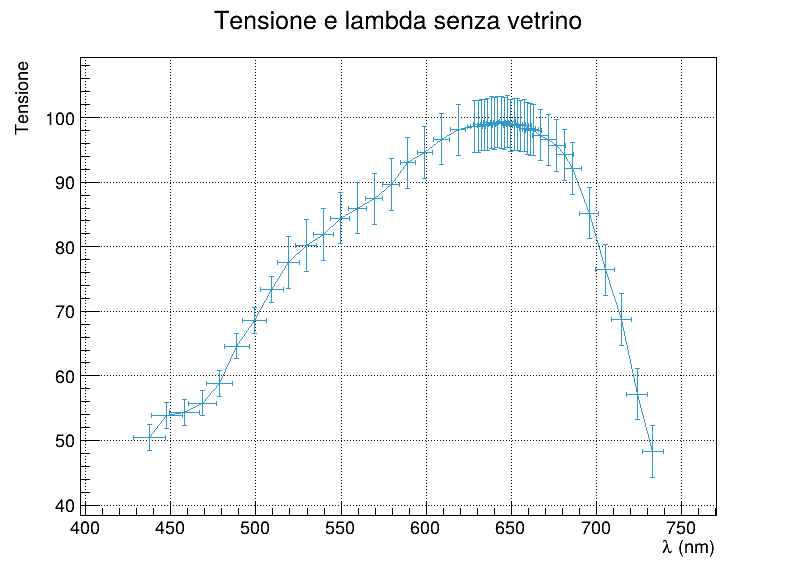
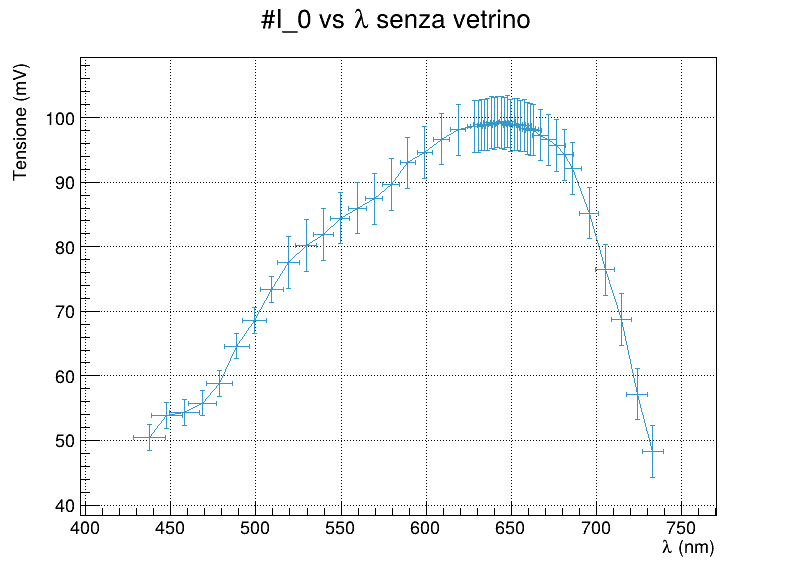
unità di misura

Changed region(s): [[0.2714, 0.0, 0.7236, 0.0594], [0.0, 0.0892, 0.0603, 0.3269]]

diff --git a/LAB_struttura/FC_grafico_I0.C b/LAB_struttura/FC_grafico_I0.C
@@ -10,7 +10,7 @@
 using namespace std;
 
 
-void FC_graph_I0(){
+void FC_grafico_I0(){
     vector<double> lambda={
         437.3694,
         447.737,
@@ -221,8 +221,8 @@ void FC_graph_I0(){
 
     p1->Draw();
     p1->cd();
-    gr1->SetTitle("Tensione e lambda senza vetrino");
-    gr1->GetYaxis()->SetTitle("Tensione");
+    gr1->SetTitle("#I_0 vs #lambda senza vetrino");
+    gr1->GetYaxis()->SetTitle("Tensione (mV)");
     gr1->GetYaxis()->SetAxisColor(kBlack);
     gr1->GetYaxis()->SetLabelColor(kBlack);
     gr1->GetYaxis()->SetTitleColor(kBlack);
